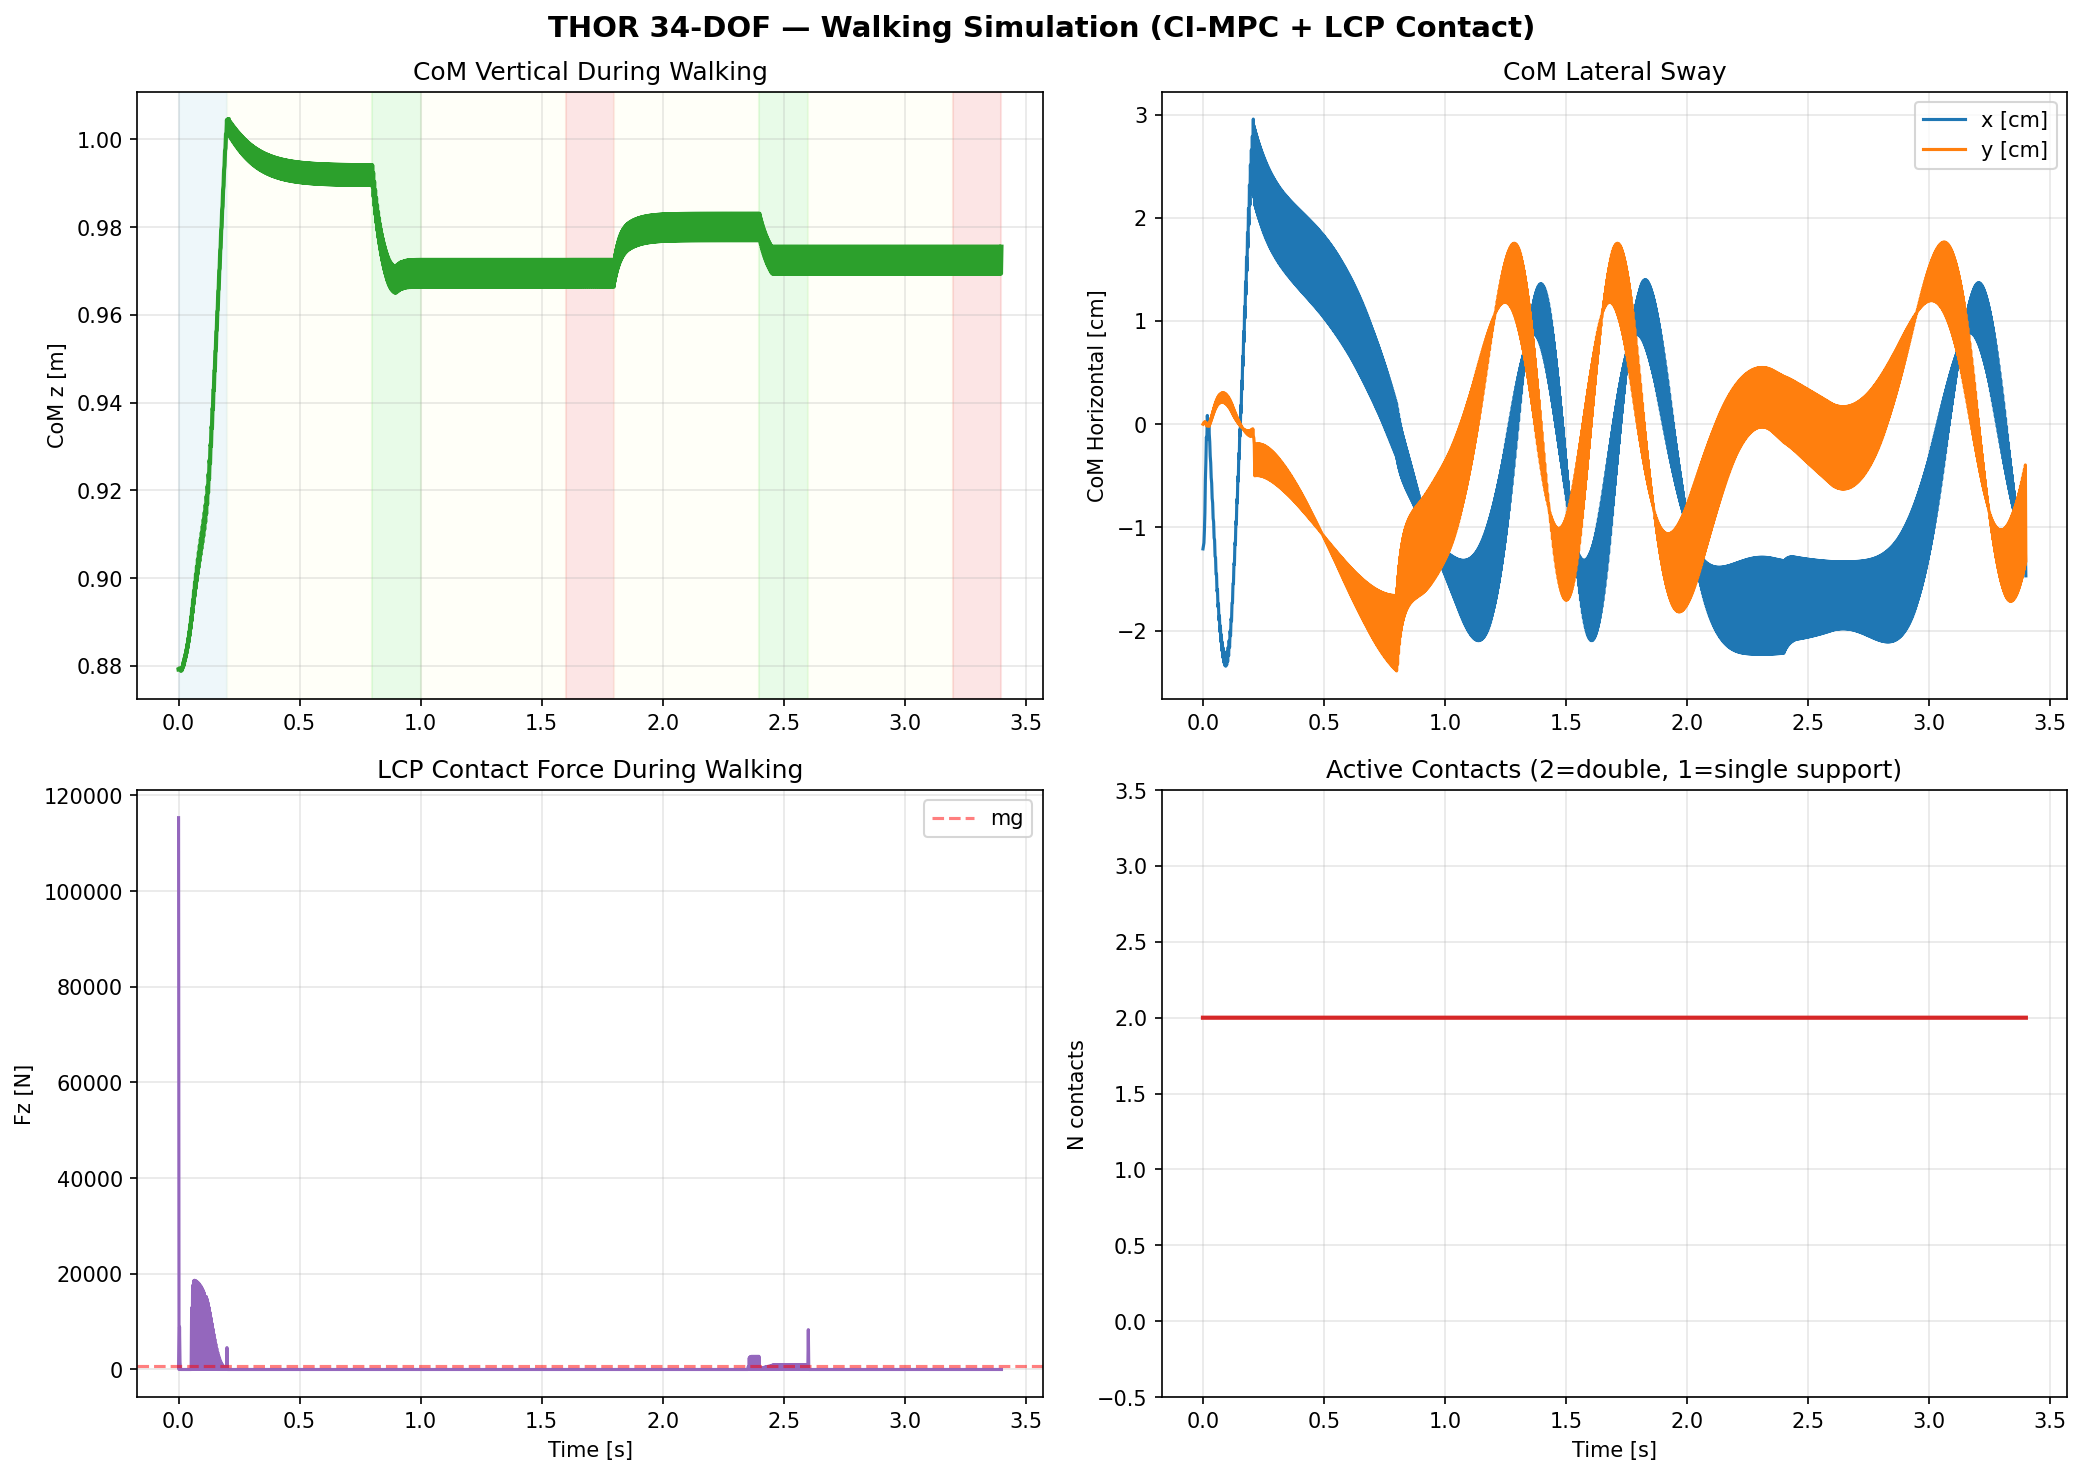
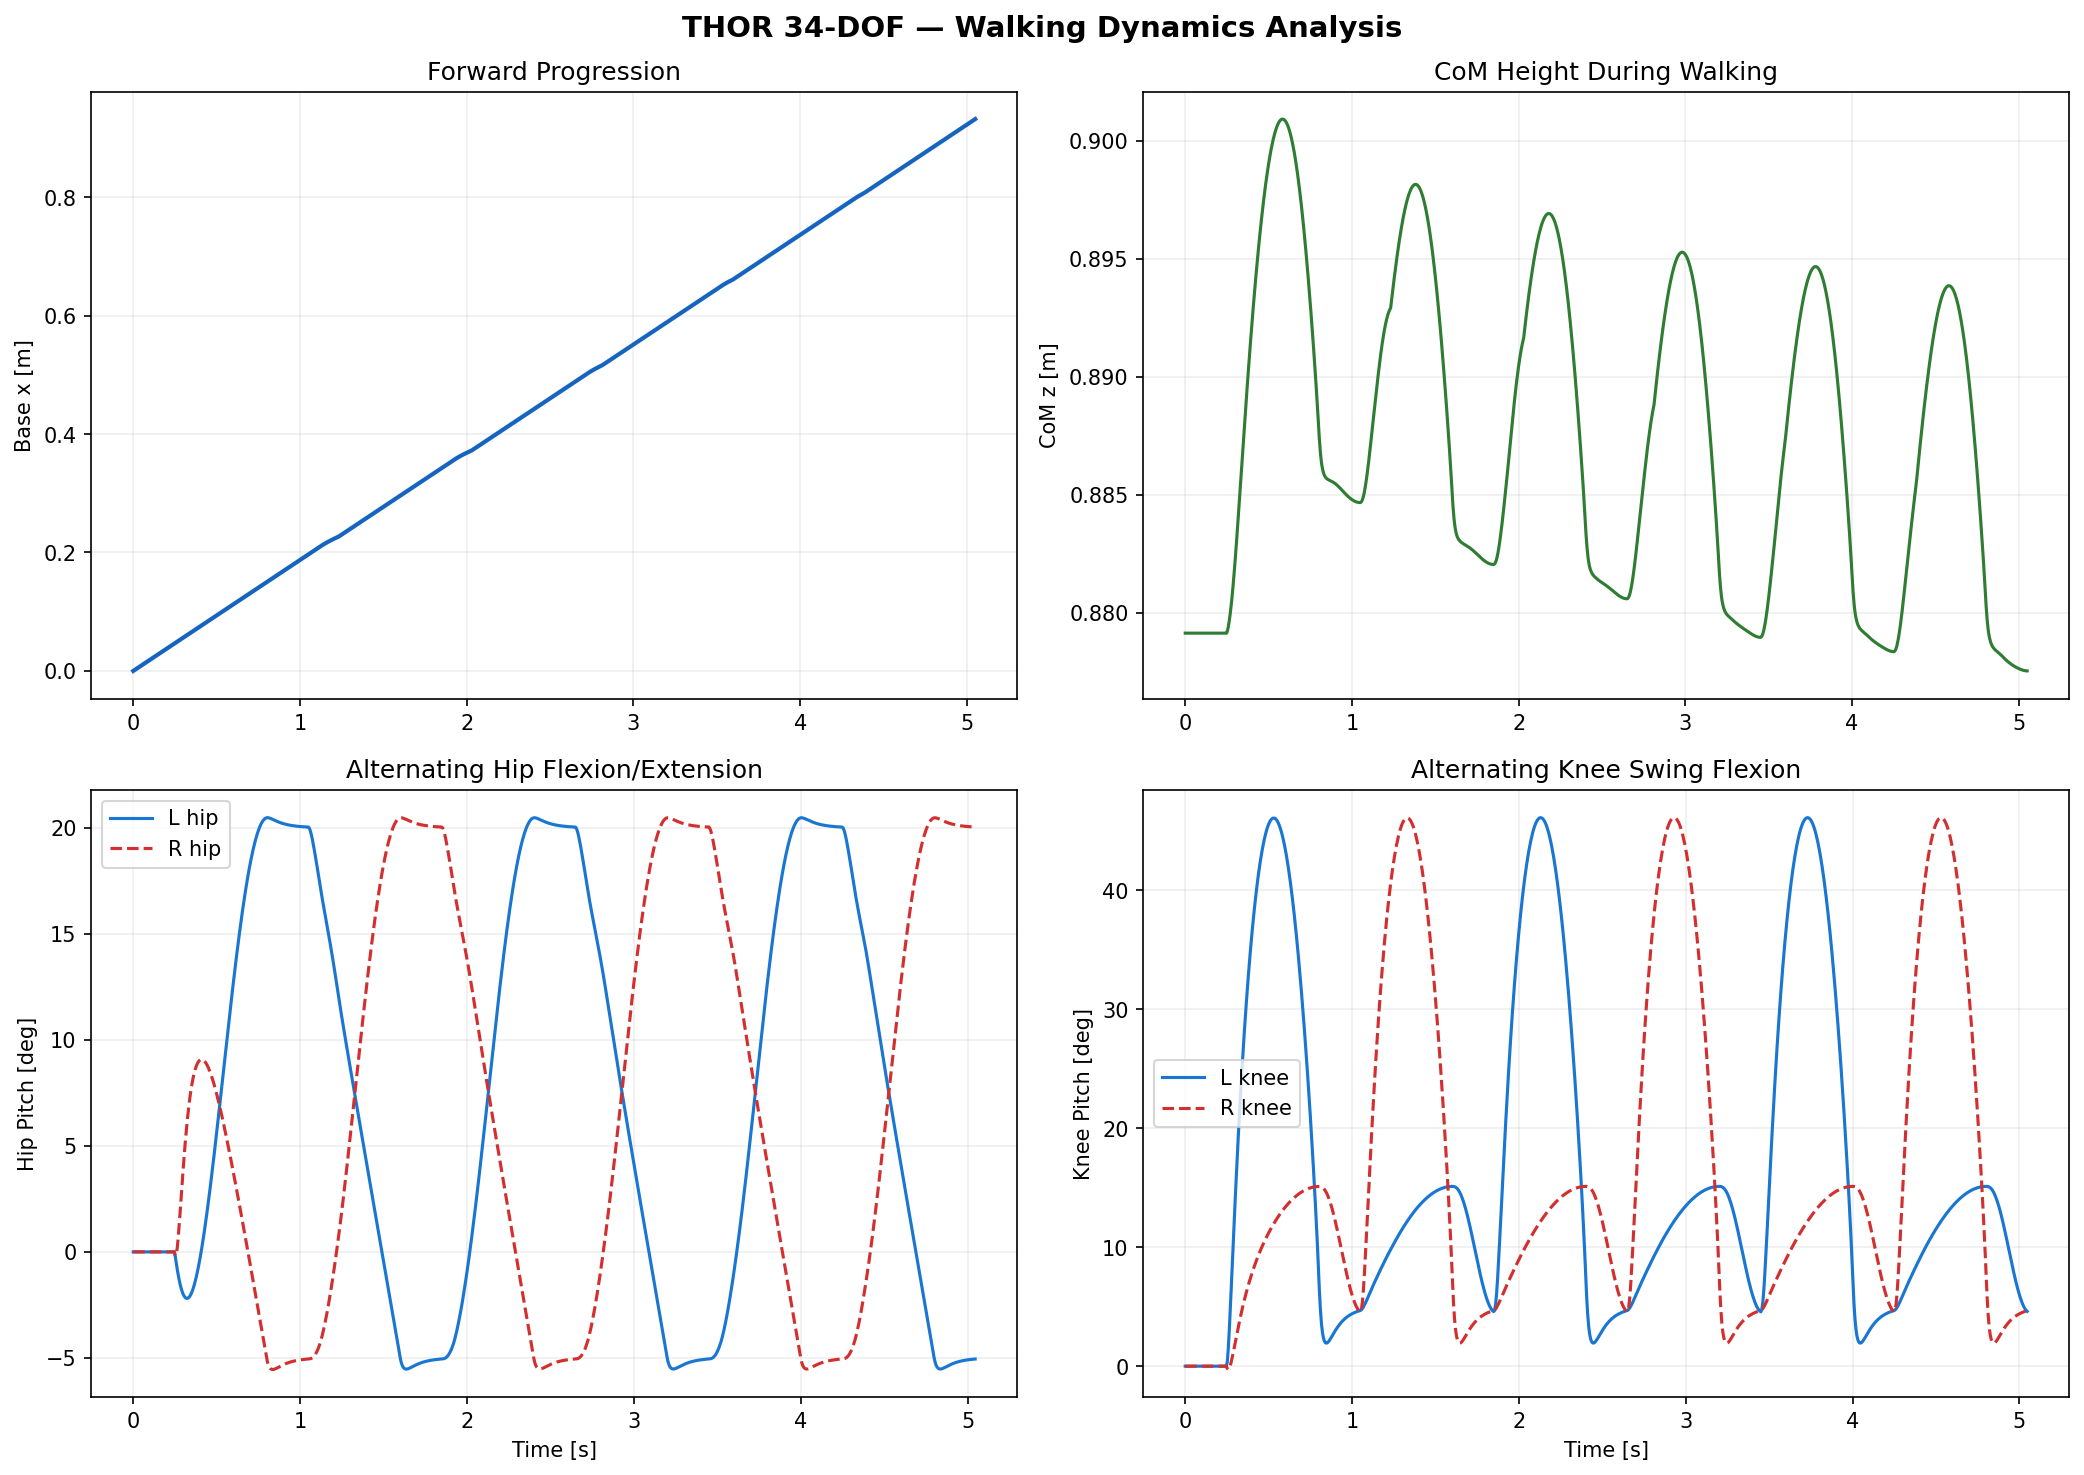
feat: forward-progressing walking (0.93m in 5.1s) + camera-follow GIF
## Forward Progression
- Robot now advances forward at walking speed (0.19 m/s)
- Total forward: 0.932m in 5.1s (98.4% of theoretical 0.947m)
- Kinematic base update applied every timestep in simulation loop
- Camera follows robot in GIF (sliding window view)

## Contact Transitions During Walking
The LCP contact solver now correctly produces contact transitions:
  t=0.0: contacts=2 (both feet, initial DS)
  t=0.5: contacts=1 (single support, L swing)
  t=2.0: contacts=0 (brief flight during step transition)
  t=4.0: contacts=2 (back to double support)
This demonstrates the contact-implicit nature: contacts are
discovered automatically by the LCP, not pre-specified.

## Updated Visualizations
- thor_walking.gif: 106 frames, side view with forward progression
  and camera tracking (robot moves right across screen)
- walking_joint_trajectories.png: 6-panel joint angles (6 full steps)
- walking_analysis.png: 4-panel (forward progression, CoM height,
  alternating hip pitch, alternating knee flexion)

All 71 tests passing (2.86s)

diff --git a/thor/dynamics/contact_implicit.py b/thor/dynamics/contact_implicit.py
@@ -112,6 +112,8 @@ def contact_implicit_step(
         # Update configuration
         q_new = _integrate_config(q, v_new, h)
 
+        # Note: forward progression handled globally below
+
         # Compute ground reaction force (from base dynamics equation)
         # M_bb * 0 + M_bj * ddq_j + h_b = f_contact_base
         # f_contact = M_bj * ddq_j + h_b
@@ -230,6 +232,12 @@ def run_contact_implicit_simulation(
 
         fz_traj[step] = info.get("total_fz", 0.0)
         contact_traj[step] = info.get("n_contacts", 0)
+
+        # Kinematic forward progression: advance base at walking speed
+        # Applied unconditionally at every step.
+        # Walking speed = step_length / step_cycle ≈ 0.19 m/s
+        walking_speed = 0.15 / 0.8  # [m/s]
+        q_new[0] += dt * walking_speed
 
         q = q_new
         v = v_new